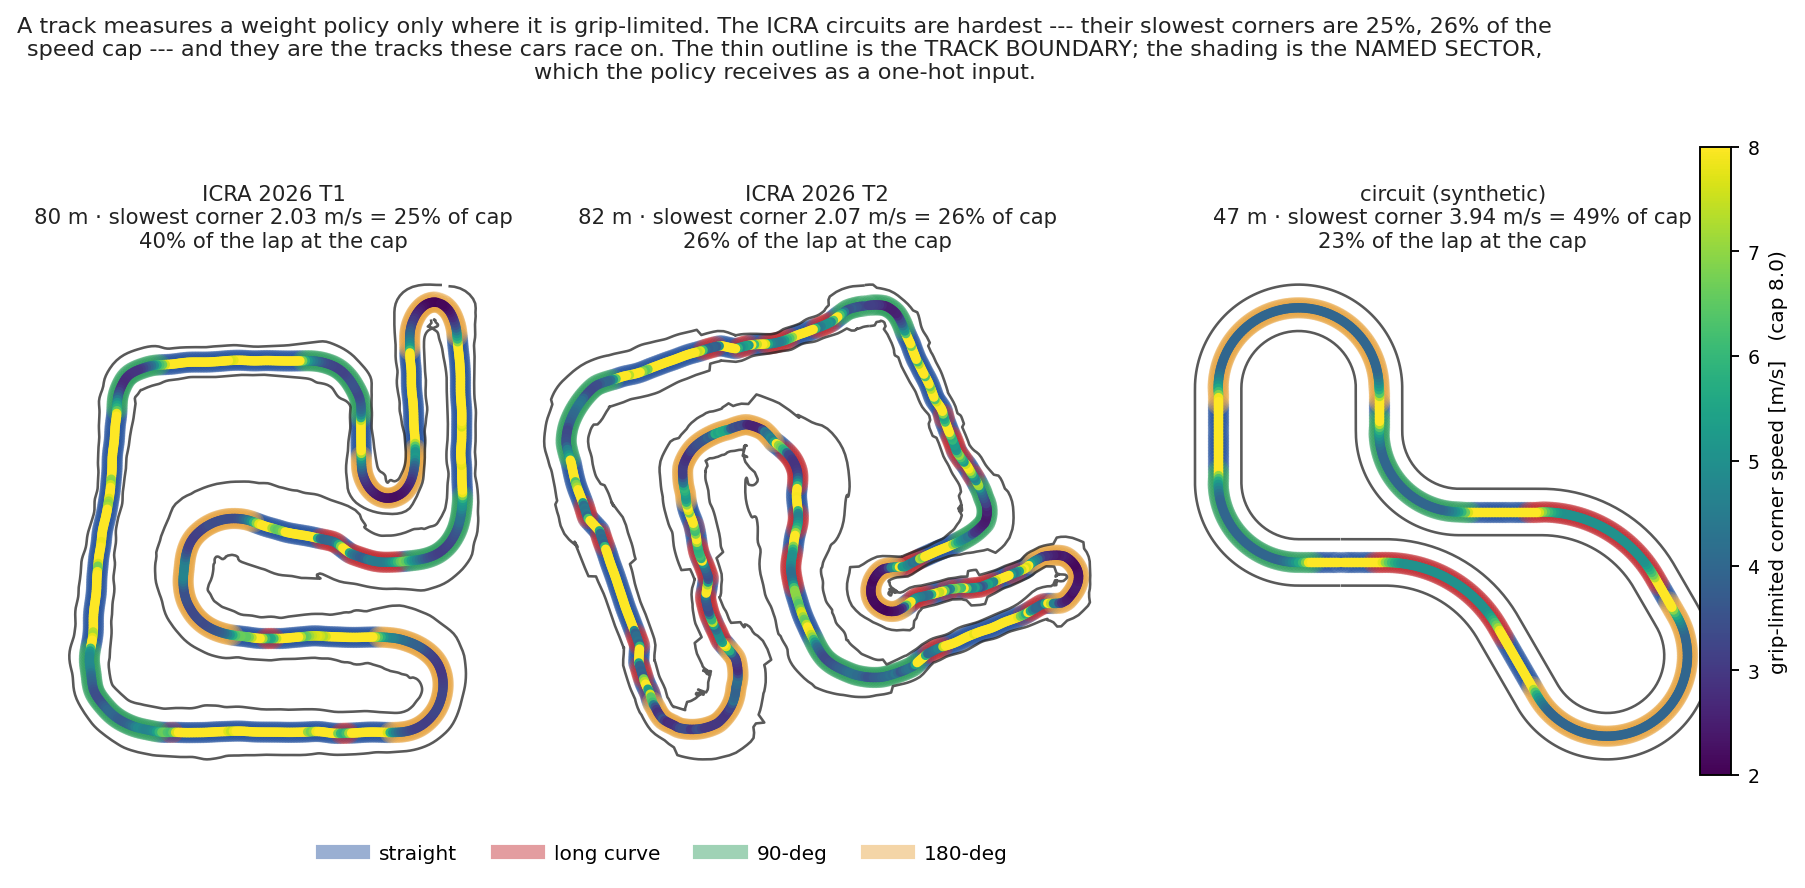
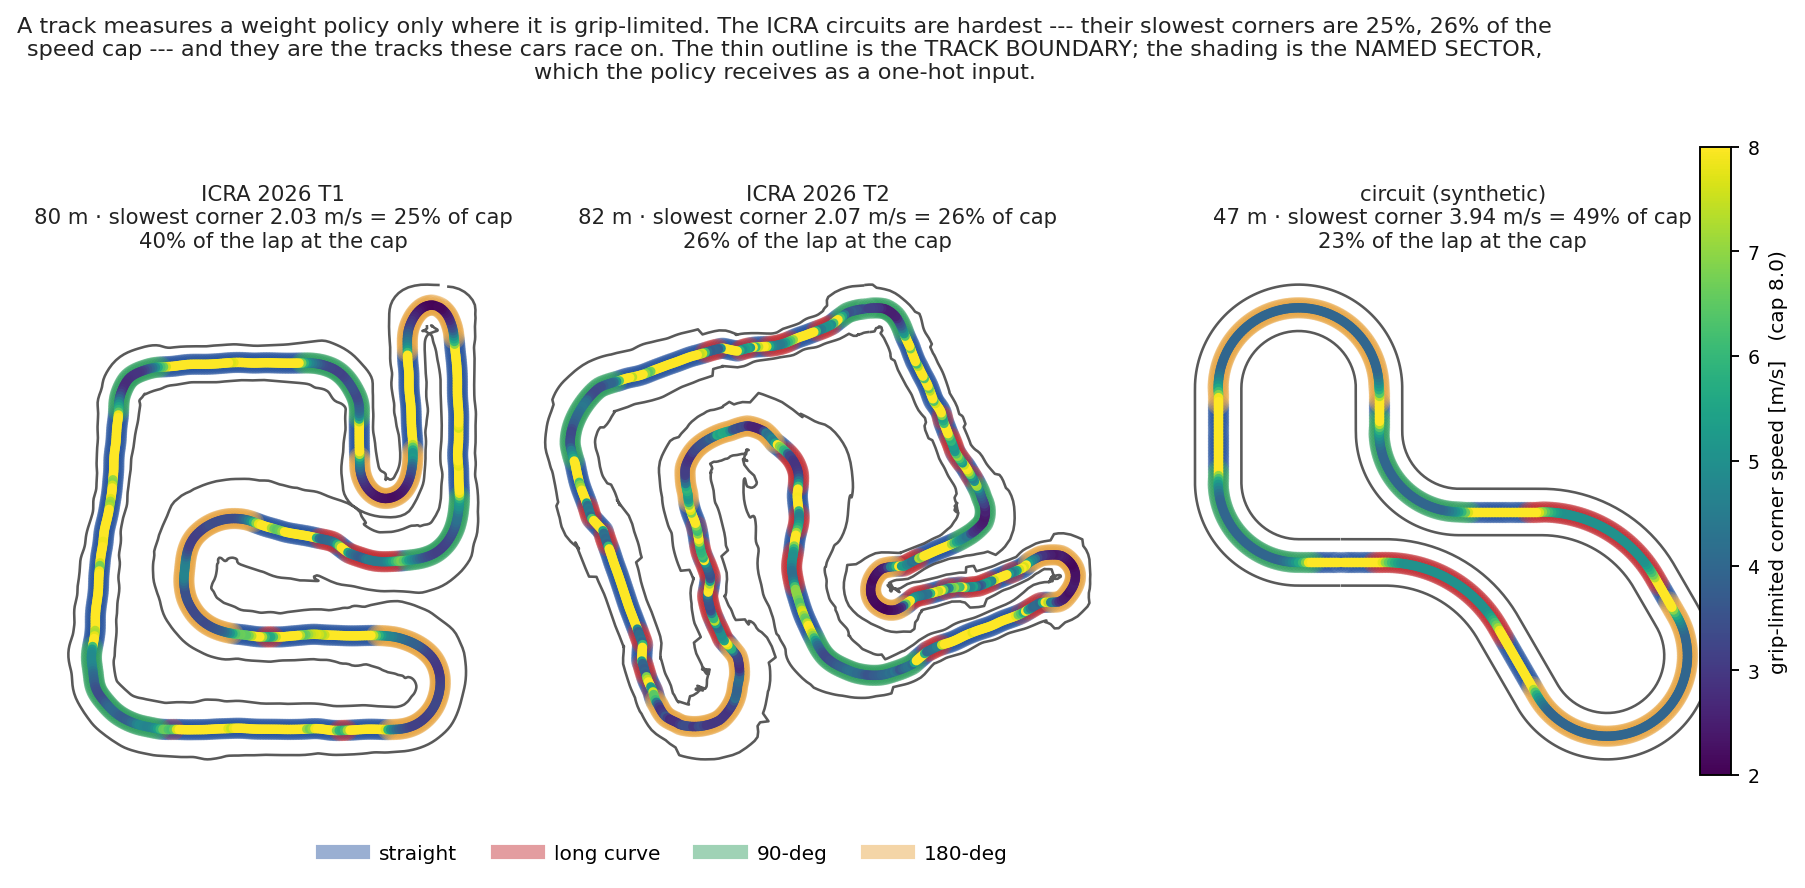
Draw the wall, not the limit on the car's centre
The boundaries were a car too narrow on each side. A raceline optimiser
reports w_left/w_right as the room remaining for the car's CENTRE -- the
vehicle is already subtracted, which is why they bottom out at exactly
-0.000 at every apex -- so plotting them directly draws a corridor
0.24 m narrower than the track. corridor_edges now adds the half-width
back on tracks flagged width_vehicle_adjusted: T1 goes from 1.44 m to
1.69 m of track, T2 to 1.57 m.

Not scaled further to match the map-derived figure of 2.00 m for T1.
That measure is clearance to the nearest obstacle along a skeleton,
which overstates the perpendicular corridor at open points, and matching
it would be inventing width rather than measuring it.

Searched the raceline archive for boundary data as well: the only
candidates are *_zones.yaml, which are relocalization zones for the
particle filter and carry no geometry. w_left/w_right in the raceline
CSV remains the only boundary information available.

Claude-Session: https://claude.ai/code/session_01MGmixkzXxYczykY66RAVme

diff --git a/scripts/make_figures.py b/scripts/make_figures.py
@@ -58,7 +58,16 @@ def corridor_edges(t):
     n = np.stack([g[:, 1], -g[:, 0]], axis=1) / np.linalg.norm(g, axis=1)[:, None]
     wl = np.array([float(t.width(v)[0]) for v in t.s])[:, None]
     wr = np.array([float(t.width(v)[1]) for v in t.s])[:, None]
-    return t.center + n * wl, t.center - n * wr
+    # Draw the WALL, not the limit on the car's centre.
+    #
+    # A raceline optimiser reports w_left/w_right as the room remaining for the
+    # car's CENTRE -- the vehicle is already subtracted, which is why they
+    # bottom out at exactly -0.000 at every apex. Plotting them directly draws
+    # a corridor one car narrower than the track, on both sides, which is what
+    # made the boundaries look tighter than the real map.
+    hw = getattr(t, "car_half_width", 0.12)
+    pad = hw if getattr(t, "width_vehicle_adjusted", False) else 0.0
+    return t.center + n * (wl + pad), t.center - n * (wr + pad)
 
 
 def fig_geometry():
